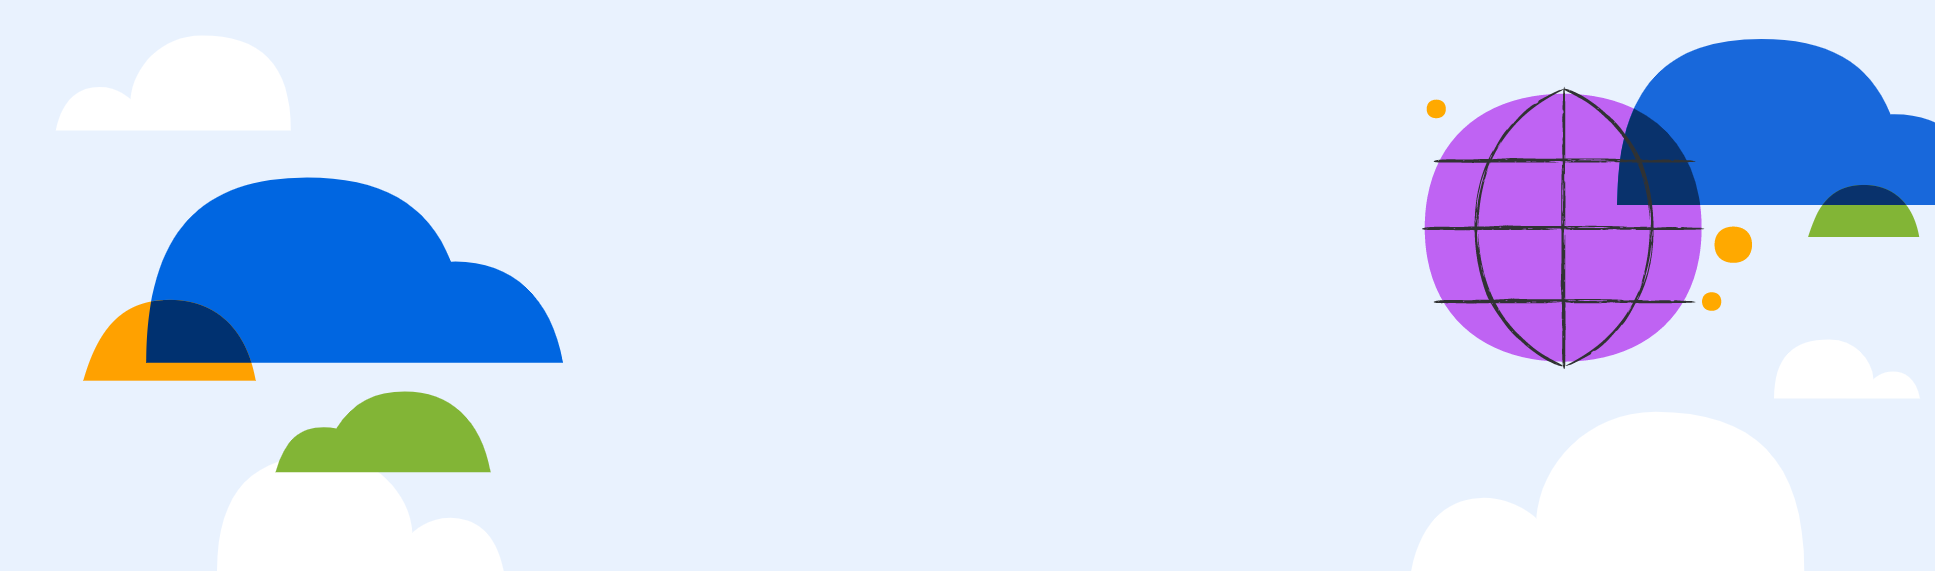
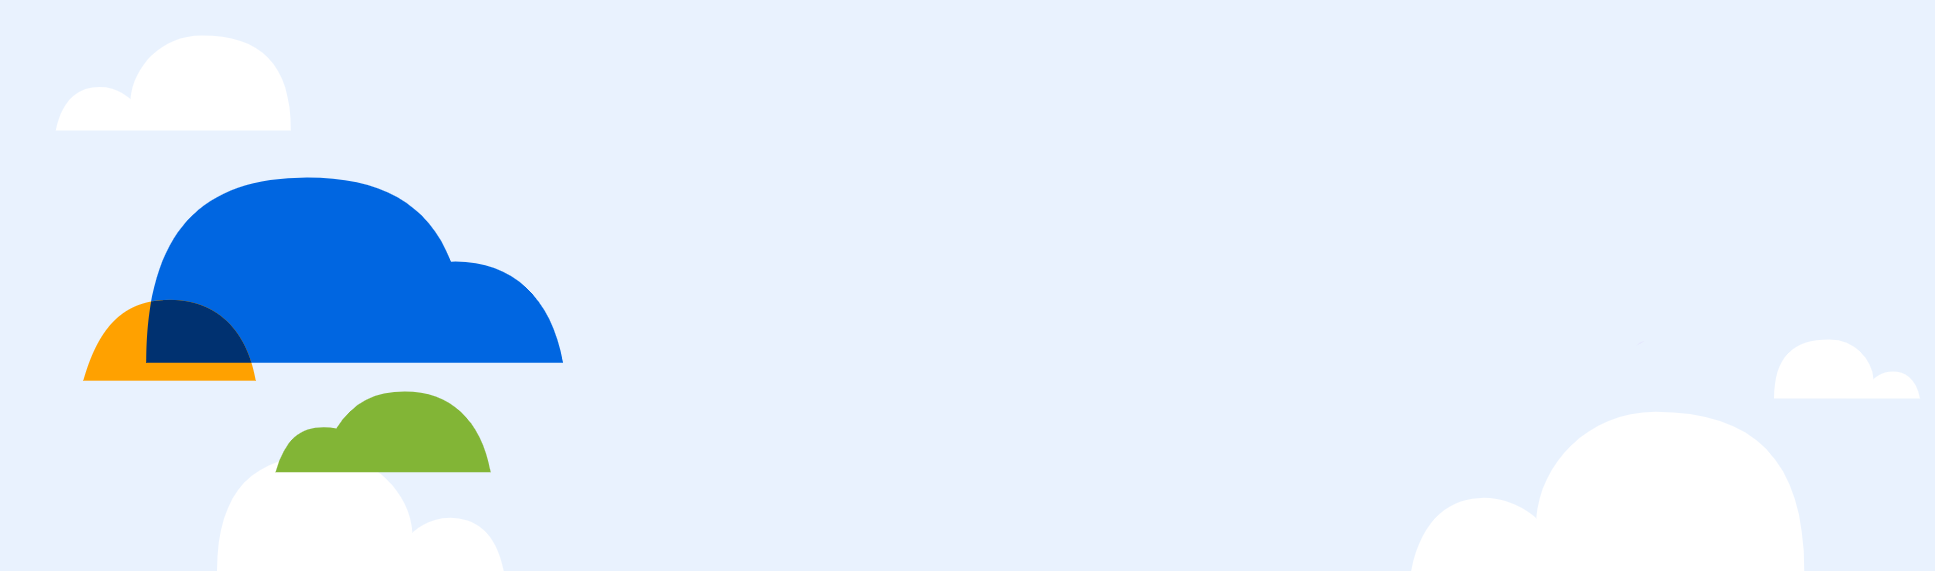
Update webinar ATL

Changed region(s): [[0.7132, 0.0595, 1.0, 0.655]]

diff --git a/jira.html b/jira.html
@@ -30,17 +30,17 @@ description: Jira es un software para la gestión de proyectos y tareas para tod
   </div>
 </section>
 
-<section id="sonarsource-partner" class="producto-detalle text-center text-center" style="background-color:#373951; padding: 40px;">
+<section id="webinar" style="background-image: url(/img/atlassian-products/fondo-webinar-atlassian.png);">
   <div class="container">
     <div class="row">
 
-      <div class="col-md-8 col-md-offset-1 text-center" style="color: hsl(0, 0%, 100%); padding-top: 20px;" >
-        <h2 style="font-size: 28px; margin:auto; text-align: left;">Fusión de Jira Software y Jira Work Management</h2>
+      <div class="col-md-7 col-md-offset-1 text-left" style="color: #000000;">
+        <h2 style="font-size: 30px; margin:auto; text-align: left;">Webinar | ¿Por qué migrar a la nube de Atlassian?¿Por qué ahora?</h2>
       </div>
 
-      <div class="col-md-2">
-        <div class="enlace-evento" style="padding-top: 10px;">
-            <a href="https://www.excentia.es/unificacion-jira-software-jira-work-management" target="_blank" class="btn btn-warning btn-xl sonarsource-background" style="border-radius: 4px;">Leer más</a>
+      <div class="col-md-4">
+        <div class="enlace-curso">
+            <a href="/webinar-migracion-nube-atlassian" target="_blank" class="btn btn-warning btn-xl sonarsource-background" style="border-radius: 4px;"> >> REGÍSTRATE</a>
           </div>
       </div>
 

diff --git a/bitbucket.html b/bitbucket.html
@@ -32,6 +32,24 @@ description: Bitbucket es el software de alojamiento de código basado en Git y 
   </div>
 </section>
 
+<section id="webinar" style="background-image: url(/img/atlassian-products/fondo-webinar-atlassian.png);">
+  <div class="container">
+    <div class="row">
+
+      <div class="col-md-7 col-md-offset-1 text-left" style="color: #000000;">
+        <h2 style="font-size: 30px; margin:auto; text-align: left;">Webinar | ¿Por qué migrar a la nube de Atlassian?¿Por qué ahora?</h2>
+      </div>
+
+      <div class="col-md-4">
+        <div class="enlace-curso">
+            <a href="/webinar-migracion-nube-atlassian" target="_blank" class="btn btn-warning btn-xl sonarsource-background" style="border-radius: 4px;"> >> REGÍSTRATE</a>
+          </div>
+      </div>
+
+    </div>
+  </div>
+</section>
+
 <section id="caracteristicas-producto" class="bg-primary text-center" style="background-color: #373951;padding: 50px 0;padding-bottom: 150px;">
   <div class="container">
     <div class="row title" style="color:white">

diff --git a/confluence.html b/confluence.html
@@ -32,6 +32,24 @@ description: Confluence es la solución de gestión documental que te permite cr
   </div>
 </section>
 
+<section id="webinar" style="background-image: url(/img/atlassian-products/fondo-webinar-atlassian.png);">
+  <div class="container">
+    <div class="row">
+
+      <div class="col-md-7 col-md-offset-1 text-left" style="color: #000000;">
+        <h2 style="font-size: 30px; margin:auto; text-align: left;">Webinar | ¿Por qué migrar a la nube de Atlassian?¿Por qué ahora?</h2>
+      </div>
+
+      <div class="col-md-4">
+        <div class="enlace-curso">
+            <a href="/webinar-migracion-nube-atlassian" target="_blank" class="btn btn-warning btn-xl sonarsource-background" style="border-radius: 4px;"> >> REGÍSTRATE</a>
+          </div>
+      </div>
+
+    </div>
+  </div>
+</section>
+
 <section id="banner" class="producto-detalle text-center" style="background-color: #ffffff; padding:50px 0">
   <div class="container">
     <div class="row title">

diff --git a/jira-service-management.html b/jira-service-management.html
@@ -32,6 +32,24 @@ description: Herramienta ITSM flexible y rápida para gestionar solicitudes, inc
   </div>
 </section>
 
+<section id="webinar" style="background-image: url(/img/atlassian-products/fondo-webinar-atlassian.png);">
+  <div class="container">
+    <div class="row">
+
+      <div class="col-md-7 col-md-offset-1 text-left" style="color: #000000;">
+        <h2 style="font-size: 30px; margin:auto; text-align: left;">Webinar | ¿Por qué migrar a la nube de Atlassian?¿Por qué ahora?</h2>
+      </div>
+
+      <div class="col-md-4">
+        <div class="enlace-curso">
+            <a href="/webinar-migracion-nube-atlassian" target="_blank" class="btn btn-warning btn-xl sonarsource-background" style="border-radius: 4px;"> >> REGÍSTRATE</a>
+          </div>
+      </div>
+
+    </div>
+  </div>
+</section>
+
 <section id="banner" class="producto-detalle text-center" style="background-color: #ffffff; padding:50px 0">
   <div class="container">
     <div class="row title">

diff --git a/rovo.html b/rovo.html
@@ -28,6 +28,24 @@ description: Rovo es la solución de IA de Atlassian que te ayudará a aprovecha
   </div>
 </section>
 
+<section id="webinar" style="background-image: url(/img/atlassian-products/fondo-webinar-atlassian.png);">
+  <div class="container">
+    <div class="row">
+
+      <div class="col-md-7 col-md-offset-1 text-left" style="color: #000000;">
+        <h2 style="font-size: 30px; margin:auto; text-align: left;">Webinar | ¿Por qué migrar a la nube de Atlassian?¿Por qué ahora?</h2>
+      </div>
+
+      <div class="col-md-4">
+        <div class="enlace-curso">
+            <a href="/webinar-migracion-nube-atlassian" target="_blank" class="btn btn-warning btn-xl sonarsource-background" style="border-radius: 4px;"> >> REGÍSTRATE</a>
+          </div>
+      </div>
+
+    </div>
+  </div>
+</section>
+
 <section id="banner" class="producto-detalle text-center" style="background-color: #ffffff; padding:50px 0">
   <div class="container">
     <div class="row title">

diff --git a/atlassian.html b/atlassian.html
@@ -34,6 +34,24 @@ description: Expertos en soluciones de Atlassian, realizamos implantaciones, ofr
   </div>
 </section>
 
+<section id="webinar" style="background-image: url(/img/atlassian-products/fondo-webinar-atlassian.png);">
+  <div class="container">
+    <div class="row">
+
+      <div class="col-md-7 col-md-offset-1 text-left" style="color: #000000;">
+        <h2 style="font-size: 30px; margin:auto; text-align: left;">Webinar | ¿Por qué migrar a la nube de Atlassian?¿Por qué ahora?</h2>
+      </div>
+
+      <div class="col-md-4">
+        <div class="enlace-curso">
+            <a href="/webinar-migracion-nube-atlassian" target="_blank" class="btn btn-warning btn-xl sonarsource-background" style="border-radius: 4px;"> >> REGÍSTRATE</a>
+          </div>
+      </div>
+
+    </div>
+  </div>
+</section>
+
 <section id="productos-atlassian" class="features text-center" style="padding: 50px 0">
   <div class="container">
     <div class="row title">

diff --git a/index.html b/index.html
@@ -36,6 +36,24 @@ redirect_from:
   </div>
 </section>
 
+<section id="webinar" style="background-image: url(/img/atlassian-products/fondo-webinar-atlassian.png);">
+  <div class="container">
+    <div class="row">
+
+      <div class="col-md-7 col-md-offset-1 text-left" style="color: #000000;">
+        <h2 style="font-size: 30px; margin:auto; text-align: left;">Webinar | ¿Por qué migrar a la nube de Atlassian?¿Por qué ahora?</h2>
+      </div>
+
+      <div class="col-md-4">
+        <div class="enlace-curso">
+            <a href="/webinar-migracion-nube-atlassian" target="_blank" class="btn btn-warning btn-xl sonarsource-background" style="border-radius: 4px;"> >> REGÍSTRATE</a>
+          </div>
+      </div>
+
+    </div>
+  </div>
+</section>
+
 <section id="servicios" class="features bg-white text-center" style="padding: 50px 0">
   <div class="container">
     <div class="row title">
